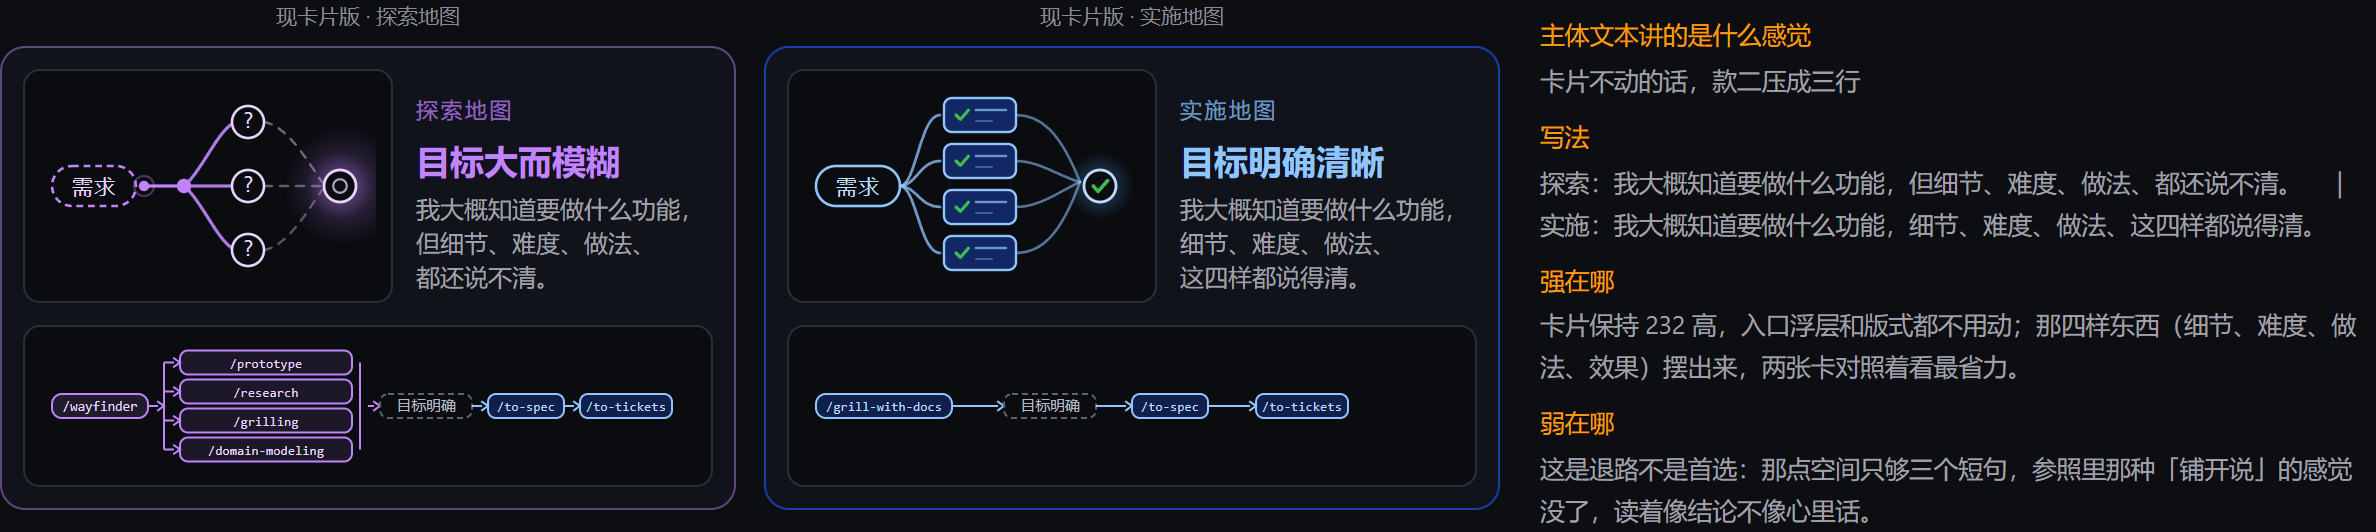
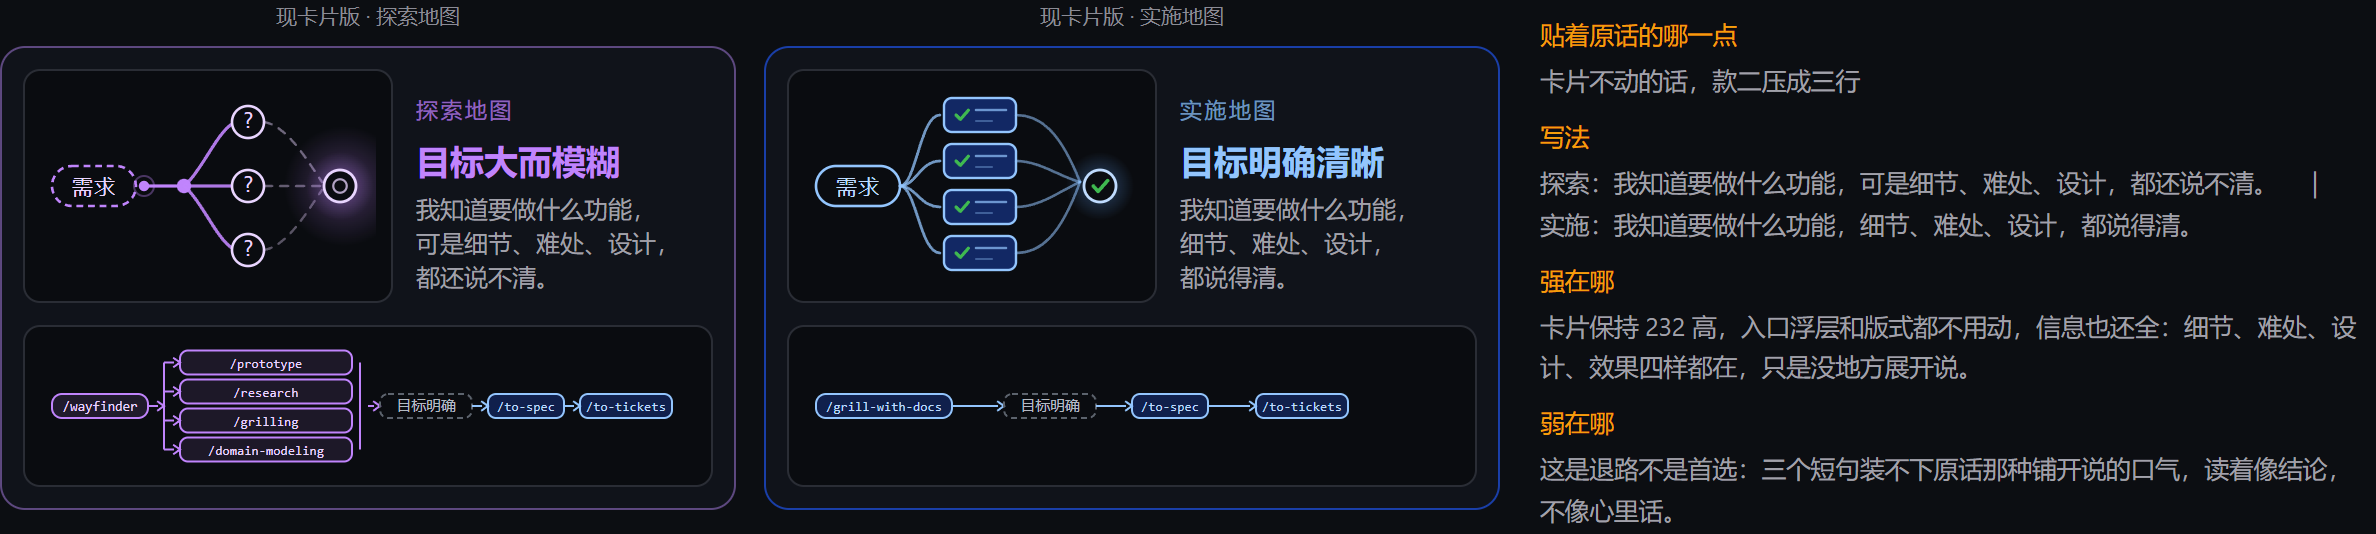
把 #1290 入口卡的主体文本再重做一轮：四款都贴着原话的口气，只差语气和结构
上一轮的四款里只有「原话体」留在原话的语气里，另外三款（列清单、碎念、举例子）各自往
别的方向去了：清单像表格，碎念太碎，举例会出戏。这一轮四款都从用户那段原话里长出来，
第一人称、跟自己说话、把「说不清」一件件说过去，不上价值、不讲流程、不耍机灵。

四款之间的差别只在语气和结构：
一 · 原话口气——保留「但是仔细想想呢」这个转折和逐件罗列「不知道」的口气；
二 · 压成两句——去掉「但是」「呢」这类口语，用破折号把最重的「做成什么样」甩出来；
三 · 先扬后落——第一句先承认知道，第二句才往下走一层，最后一行落下去；
四 · 自问一句——中间加一句「真让我说清楚呢」的自问，转身之后再给答案。

实施地图那张始终是同一副句子骨架反填，把「不知道」逐个换成「有数」「说得清」。

版式沿用上一轮的结论：文字超过 24 字，右栏 144px 放不下，主体文本放卡片下方通栏，
卡片 232 高加到 320 高；页面末尾保留「现卡片放不下时」的退路一节。

diff --git a/docs/prototype/1290-body-text-4ways.html b/docs/prototype/1290-body-text-4ways.html
@@ -3,7 +3,7 @@
 <head>
 <meta charset="utf-8">
 <meta name="viewport" content="width=device-width,initial-scale=1">
-<title>原型 #1290 · 主体文本：照着那种感觉重写</title>
+<title>原型 #1290 · 主体文本：贴着原话的感觉，再写四款</title>
 <style>
 :root{--bg:#0c0e12;--card:#10131a;--border:#2a2d35;--txt:#e6edf3;--sec:#a1a1aa;--cap:#8b8b95;
   --purple:#c084fc;--blue-text:#93c5fd;--amber:#f59e0b}
@@ -41,53 +41,53 @@ td.p{color:var(--purple)} td.b{color:var(--blue-text)}
 </head>
 <body>
 <div class="page-head">
-  <h1>主体文本：照着那种感觉重写</h1>
-  <p>上一轮把感觉压成了两句短句和一个反问，效果都不好——短句装不住那种感觉，反问又太冷。这一轮<b>直接照着你给的那段话来写</b>：同样的口语、同样的一口气、同样把「不知道」一件件列出来。</p>
-  <p class="quote">你给的参照（探索地图，目标大而模糊时那种感觉）：<b>「我知道自己要做什么功能，但是仔细想想呢，又感觉很多细节很模糊；会遇到什么困难也不知道，要具体怎么设计也不知道，甚至这个目标要达成什么样的效果也不知道。」</b>　实施地图写同一件事的另一面，同一副句子骨架反过来填。</p>
-  <p>四款换的是<b>写法</b>，不是内容：一 · 原话体（照着那段话铺开写）、二 · 列清单（四个词打头，结论相反）、三 · 碎念（短句加省略号，像自己嘟囔）、四 · 举例子（用一件具体的事把「说不清」演出来）。</p>
-  <p>这四段文字都超过 24 个字，右栏 144px 放不下，所以<b>主体文本改成卡片下方通栏</b>（344px 宽，12px 字号，一行 26 字），卡片从 232 高加到 320 高。末尾另附一节：现卡片放不下时能退成什么样。</p>
+  <h1>主体文本：贴着原话的感觉，再写四款</h1>
+  <p>这一轮四款都从你那段原话里长出来：第一人称、跟自己说话、把「说不清」一件件说过去，不上价值、不讲流程、不耍机灵。四款之间只差<b>语气和结构</b>：一 · 原话口气、二 · 压成两句、三 · 先扬后落、四 · 自问一句。</p>
+  <p class="quote">你给的原话（探索地图，目标大而模糊时那种感觉）：<b>「我知道自己要做什么功能，但是仔细想想呢，又感觉很多细节很模糊；会遇到什么困难也不知道，要具体怎么设计也不知道，甚至这个目标要达成什么样的效果也不知道。」</b>　实施地图是同一副骨架反过来填：还是同样的句子，把「不知道」逐个换成「有数」「说得清」。</p>
+  <p>上一轮的「列清单」「碎念」「举例子」这一轮都没留：它们各自往别的方向去了——清单像表格，碎念太碎，举例会出戏，都不是原话那种口气。这四款都留在原话的语气里。</p>
+  <p>这四段都超过 24 个字，右栏 144px 放不下，所以<b>主体文本放在卡片下方通栏</b>（344px 宽、一行 26 字），卡片从 232 高加到 320 高。末尾另附一节：卡片高度动不了时能退成什么样。</p>
 </div>
 
 <div class="wrap">
   <section>
-    <h2><span class="tag">一</span>原话体 · 照着那段话铺开写</h2>
-    <p class="sub">保留你那段话的口语质感，连「但是仔细想想呢」这种转折都留着；实施那张是<b>同一副骨架反过来填</b>——同样是「我知道要做什么功能」，探索往「不知道」里走，实施往「心里有数」里走。</p>
+    <h2><span class="tag">一</span>原话口气 · 最贴原话的节奏</h2>
+    <p class="sub">保留「但是仔细想想呢」这个转折，保留「会遇到什么困难也不知道、要具体怎么设计也不知道」这种<b>一件件罗列</b>的口气，最后用「连…都说不上来」收住。实施那张是同一副骨架反填。</p>
     <div class="opt" id="k1"></div>
   </section>
 
   <section>
-    <h2><span class="tag">二</span>列清单 · 四个词打头，结论相反</h2>
-    <p class="sub">把「模糊」拆成四样具体的东西摆出来（细节、难度、做法、效果），两张卡摆的是<b>同一样东西</b>，结论一个说不清、一个说得清；最后一句再落到「能不能讲清楚要做成什么样」。这一款也最容易压回现卡片。</p>
+    <h2><span class="tag">二</span>压成两句 · 去掉口语，更利落</h2>
+    <p class="sub">去掉「但是」「呢」这类口语，把细节、难处、怎么设计串成一句，再用破折号把最重的「做成什么样」单独甩出来。信息一样多，读起来更快。</p>
     <div class="opt" id="k2"></div>
   </section>
 
   <section>
-    <h2><span class="tag">三</span>碎念 · 短句加省略号，像自己嘟囔</h2>
-    <p class="sub">不铺长句，改成一句一句往外蹦：「说不清」「不清楚」「没谱」三种说法递进，模糊的层次就出来了；实施那张是同样四件事、同样句式，但每句后面跟的都是「说得上」。</p>
+    <h2><span class="tag">三</span>先扬后落 · 先承认知道，再往下掉</h2>
+    <p class="sub">第一句只说「我知道要做什么功能，这一层是清楚的」，第二句才往下走一层，最后一行落下去。<b>落差是「往下走」这个动作带出来的</b>，不靠形容词。</p>
     <div class="opt" id="k3"></div>
   </section>
 
   <section>
-    <h2><span class="tag">四</span>举例子 · 用一件具体的事演出来</h2>
-    <p class="sub">不形容，直接给一件事：同样是「客户回访」这个需求，探索那张「问他一句，就卡一句」，实施那张「问他一句，就答一句」。</p>
+    <h2><span class="tag">四</span>自问一句 · 最像自言自语</h2>
+    <p class="sub">在中间加一句「真让我说清楚呢」的自问，然后才回答——跟你原话里「仔细想想呢」是<b>同一个转身</b>，只是这次把转身说出声了。</p>
     <div class="opt" id="k4"></div>
   </section>
 
   <section>
     <h2><span class="tag">退路</span>现卡片放不下时能退成什么样</h2>
-    <p class="sub">如果卡片高度不能动（还是 232 高、右栏 144px、一行 12 字），能把上面四款里最省字的那款压成三行：</p>
+    <p class="sub">如果卡片高度不能动（还是 232 高、右栏 144px、一行 12 字），把款二压成三行是这样：</p>
     <div class="opt" id="knarrow"></div>
   </section>
 
   <section>
     <h2><span class="tag">对照</span>四款放在一起比</h2>
     <div id="cmp"></div>
-    <p class="hint">我最想要<b>款一（原话体）</b>：它是唯一把你那段参照原样带进来的，连转折的口语都在，用户读到的就是自己脑子里的原话，代价是卡片得加高到 320。卡片高度动不了的话，退到<b>款二</b>，把四样东西摆出来——同样四样，一边说不清一边说得清，对照最省力。款三最有语气，但四段同句式，实施那张读着像流水账。款四最具体，可例子未必是用户自己的场景，容易出戏。</p>
+    <p class="hint">我最想要<b>款一</b>：它跟你那段原话的节奏最像，读完不用反应就能对上自己的状态。第二是<b>款四</b>，多那一句自问，最像人自己在那儿念叨。款二最利落，可利落也意味着不像心里话；款三有递进感，「一层比一层」是四款里唯一带评价的说法，实施那张念着有点勉强。</p>
   </section>
 
   <section>
     <h2><span class="tag">待定</span>挑完之后要做的事</h2>
-    <p class="sub">选一款（或指定混搭），我把它并进 <code>docs/prototype/1290-entry-two-maps.html</code> 的真实入口浮层，刷新截图，并同步 #1290 与 #1297 票面上的卡面文案。款一至款四要动版式（卡片 232 → 320 高、主体文本改通栏），那一并写进票面。</p>
+    <p class="sub">你挑一款（或指定混搭），我把它并进 <code>docs/prototype/1290-entry-two-maps.html</code> 的真实入口浮层、刷新截图，并同步 #1290 与 #1297 票面上的卡面文案。定稿后还有两处要跟着改：票面上「主体文本只答『点下去会发生什么、走完手里多了什么』、两行内每行 ≤12 汉字」这句要换成新的职责定义和版式（卡片 232 → 320 高、主体文本改通栏）；#1297 的真代码（卡片加高、文案落 <code>config/copy/cards.yaml</code>）等你定稿再动。</p>
   </section>
 </div>
 
@@ -243,43 +243,43 @@ var GRAY="#a1a1aa";
 /* 一行主体文字 = 一个「文字 + 颜色」的片段；L 生成灰色的片段 */
 function L(t){ return {t:t,c:GRAY}; }
 
-/* 这一轮：四款都照着参照那段话的感觉写，换的是写法 */
+/* 这一轮：四款都从原话那种口气里长出来，只换语气和结构 */
 var WAYS=[
-  {id:"k1", name:"原话体", q:"照着参照那段话铺开写", wide:true,
-   e:[[L("我知道自己要做什么功能，但是仔细想想呢，")],[L("很多细节很模糊；会遇到什么困难也不知道，")],[L("要具体怎么设计也不知道，连做成什么效果也说不清。")]],
-   i:[[L("我知道自己要做什么功能，仔细想想也不含糊；")],[L("会遇到什么困难心里大致有数，要具体怎么设计")],[L("也有个方向，连做成什么效果心里都有数。")]],
-   strong:"唯一把你那段参照原样带进来的：连「但是仔细想想呢」这个转折都在，实施那张是同一副骨架反过来填，用户读到的就是自己脑子里的原话。",
-   weak:"一口气读完要几秒；实施那张是照骨架硬翻的，念着有点排比腔。"},
-  {id:"k2", name:"列清单", q:"四个词打头，结论相反", wide:true,
-   e:[[L("我大概知道要做什么功能。但落到细节、难度、")],[L("做法、效果——这四样都还说不清；")],[L("我也没法跟人讲清楚到底要做成什么样。")]],
-   i:[[L("我大概知道要做什么功能。细节、难度、做法、")],[L("效果——这四样我都说得清；")],[L("我也能跟人讲清楚到底要做成什么样。")]],
-   strong:"把「模糊」拆成四样具体的东西摆出来，两张卡摆的是同一样东西、结论一个说不清一个说得清，对照最省力；也最容易压回现卡片。",
-   weak:"清单体比口语硬，感觉弱一些；「我大概知道要做什么功能」这句也偏弱。"},
-  {id:"k3", name:"碎念", q:"短句加省略号，像自己嘟囔", wide:true,
-   e:[[L("功能是知道的……细节嘛，说不清；")],[L("难在哪，不清楚；怎么设计，没谱；")],[L("做成什么样，也说不清。")]],
-   i:[[L("功能是知道的……细节，说得清；")],[L("难在哪，有数；怎么设计，有方向；")],[L("做成什么样，也说得清。")]],
-   strong:"最有语气：短句加省略号像人在自己嘟囔，「说不清／不清楚／没谱」三种说法递进，模糊的层次就出来了。",
-   weak:"碎念体读起来零碎；实施那张四段同句式，容易读成流水账。"},
-  {id:"k4", name:"举例子", q:"用一件具体的事演出来", wide:true,
-   e:[[L("比如要做客户回访。什么客户、多久回访一次、")],[L("做成什么样——问他一句，就卡一句。")]],
-   i:[[L("比如要做客户回访。什么客户、多久回访一次、")],[L("做成什么样——问他一句，就答一句。")]],
-   strong:"不形容，直接给一件事：「问他一句，就卡一句」把「说不清」落在具体互动上，不用用户先抽象理解。",
-   weak:"例子未必是用户自己的场景，容易出戏；一句例子说不全，剩下那三样模糊还是没讲。"}
+  {id:"k1", name:"原话口气", q:"转折的口语 + 一件件罗列「不知道」", wide:true,
+   e:[[L("我知道自己要做什么功能，但是仔细想想呢，")],[L("很多细节很模糊：会遇到什么困难不知道，")],[L("要具体怎么设计也不知道，连做成什么效果都说不上来。")]],
+   i:[[L("我知道自己要做什么功能，仔细想想呢，也都清楚：")],[L("会遇到什么困难心里有数，要具体怎么设计也有个方向；")],[L("连做成什么效果，都说得出。")]],
+   strong:"跟你那段原话的节奏一模一样，连「但是仔细想想呢」这个转折都在；卡片会被反复看，这一款读几遍都还像自己脑子里那句话。",
+   weak:"四款里最长，三行把通栏铺满；实施那张是照骨架反填，「也都清楚：」后面接排比，念着比探索那张僵。"},
+  {id:"k2", name:"压成两句", q:"去掉口语，破折号收在最重的一项", wide:true,
+   e:[[L("我知道自己要做什么功能，可是仔细想想，")],[L("细节、难处、怎么设计，一样一样都还说不清——")],[L("连做成什么样，也说不上来。")]],
+   i:[[L("我知道自己要做什么功能，仔细想想，")],[L("细节、难处、怎么设计，一样一样都说得清——")],[L("连做成什么样，也说得上来。")]],
+   strong:"更利落：去掉「但是」「呢」这类口语，把细节、难处、怎么设计串成一句，破折号再把最重的「做成什么样」甩出来。",
+   weak:"利落也就没那么像心里话了，有点像谁在替用户总结；「一样一样」这个说法偏书面。"},
+  {id:"k3", name:"先扬后落", q:"先承认知道，再往下掉一层", wide:true,
+   e:[[L("我知道要做什么功能，这一层是清楚的。再往下想：")],[L("细节什么样、难在哪儿、该怎么设计、做成什么效果，")],[L("就一层比一层糊涂。")]],
+   i:[[L("我知道要做什么功能，这一层是清楚的。再往下想：")],[L("细节什么样、难在哪儿、该怎么设计、做成什么效果，")],[L("就一层比一层清楚。")]],
+   strong:"有递进：第一句先承认「我知道」，第二句才往下走，落差是「往下走」这个动作带出来的，不是形容词堆出来的。",
+   weak:"「一层比一层」是四款里唯一带评价的说法；实施那张「一层比一层清楚」反着念有点勉强。"},
+  {id:"k4", name:"自问一句", q:"多一句自问：真让我说清楚呢？", wide:true,
+   e:[[L("我知道自己要做什么功能。真让我说清楚呢，")],[L("也说不太上来：会遇到什么困难、该怎么设计、")],[L("最后做成什么样，都还是个大概。")]],
+   i:[[L("我知道自己要做什么功能。真让我说清楚呢，")],[L("也都说得上来：会遇到什么困难、该怎么设计、")],[L("最后做成什么样，心里都有数。")]],
+   strong:"最像自言自语：中间多一句「真让我说清楚呢」的自问，转身之后再给答案——跟原话里「仔细想想呢」是同一个动作，只是这次把转身说出声了。",
+   weak:"自问把句子拉成两半，后半截是冒号加罗列，读着有点像答问卷。"}
 ];
-/* 现卡片（232 高、右栏 144px）能放下的版本：把款二压成三行 */
+/* 现卡片（232 高、右栏 144px、一行 12 字）能放下的版本：把款二压成三行 */
 var NARROW={
   id:"knarrow", name:"现卡片版", q:"卡片不动的话，款二压成三行",
-  e:[[L("我大概知道要做什么功能，")],[L("但细节、难度、做法、")],[L("都还说不清。")]],
-  i:[[L("我大概知道要做什么功能，")],[L("细节、难度、做法、")],[L("这四样都说得清。")]],
-  strong:"卡片保持 232 高，入口浮层和版式都不用动；那四样东西（细节、难度、做法、效果）摆出来，两张卡对照着看最省力。",
-  weak:"这是退路不是首选：那点空间只够三个短句，参照里那种「铺开说」的感觉没了，读着像结论不像心里话。"
+  e:[[L("我知道要做什么功能，")],[L("可是细节、难处、设计，")],[L("都还说不清。")]],
+  i:[[L("我知道要做什么功能，")],[L("细节、难处、设计，")],[L("都说得清。")]],
+  strong:"卡片保持 232 高，入口浮层和版式都不用动，信息也还全：细节、难处、设计、效果四样都在，只是没地方展开说。",
+  weak:"这是退路不是首选：三个短句装不下原话那种铺开说的口气，读着像结论，不像心里话。"
 };
 function renderWay(w,wide){
   return '<div class="cards">'+
     '<div class="cardcell"><div class="cl">'+w.name+' · 探索地图</div>'+cardFinal("explore",w.e,{wide:wide})+'</div>'+
     '<div class="cardcell"><div class="cl">'+w.name+' · 实施地图</div>'+cardFinal("impl",w.i,{wide:wide})+'</div>'+
     '</div><div class="notes"><dl>'+
-    '<dt>主体文本讲的是什么感觉</dt><dd>'+w.q+'</dd>'+
+    '<dt>贴着原话的哪一点</dt><dd>'+w.q+'</dd>'+
     '<dt>写法</dt><dd>探索：'+w.e.map(function(l){return l.map(function(r){return r.t;}).join("");}).join("")+
       '　｜　实施：'+w.i.map(function(l){return l.map(function(r){return r.t;}).join("");}).join("")+'</dd>'+
     '<dt>强在哪</dt><dd>'+w.strong+'</dd>'+
@@ -289,7 +289,7 @@ function renderWay(w,wide){
 WAYS.forEach(function(w){ document.getElementById(w.id).innerHTML = renderWay(w, w.wide); });
 document.getElementById("knarrow").innerHTML = renderWay(NARROW, false);
 document.getElementById("cmp").innerHTML=
-  '<table><tr><th style="width:88px">款</th><th style="width:160px">讲的是什么感觉</th><th>探索地图的说法</th><th>实施地图的说法</th><th style="width:220px">强在哪</th><th style="width:220px">弱在哪</th></tr>'+
+  '<table><tr><th style="width:88px">款</th><th style="width:180px">贴着原话的哪一点</th><th>探索地图的说法</th><th>实施地图的说法</th><th style="width:220px">强在哪</th><th style="width:220px">弱在哪</th></tr>'+
   WAYS.map(function(w){
     var e=w.e.map(function(l){return l.map(function(r){return r.t;}).join("");}).join(""),
         i=w.i.map(function(l){return l.map(function(r){return r.t;}).join("");}).join("");
